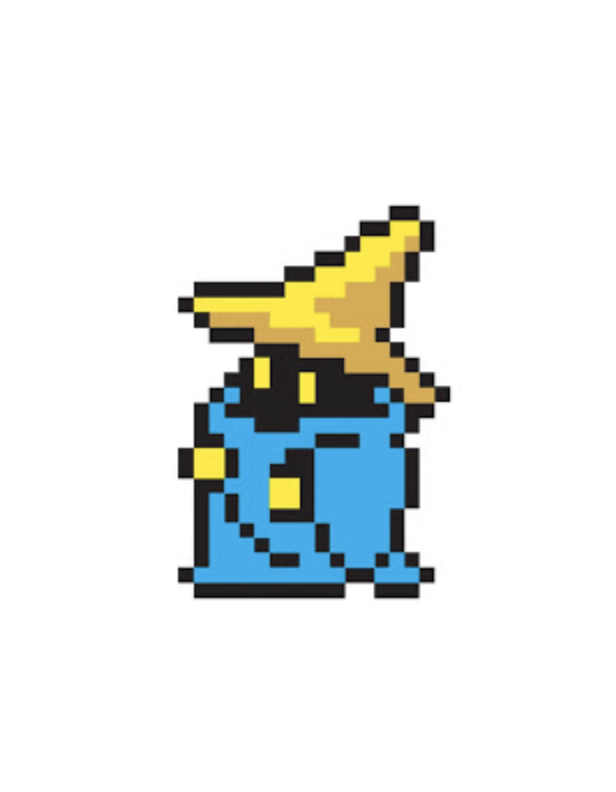
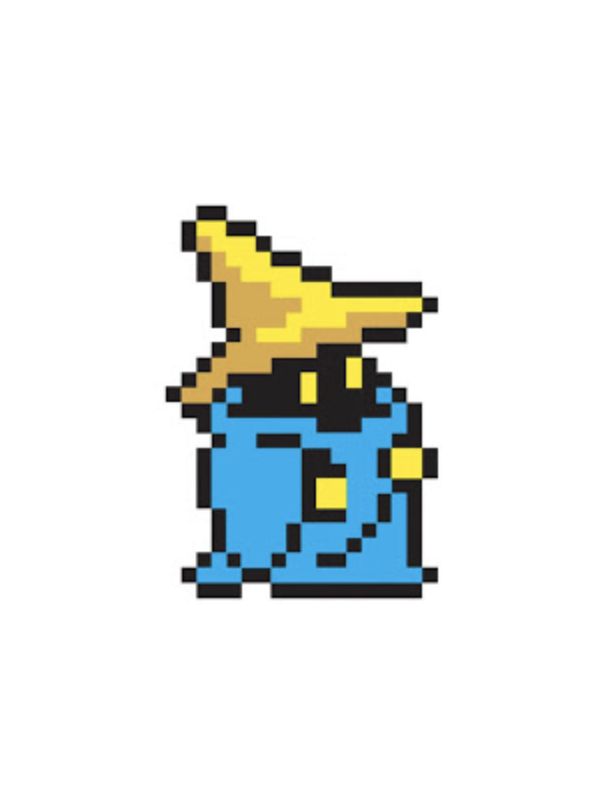
NPC image now flips so characters are facing each other

Changed region(s): [[0.2468, 0.2424, 0.7403, 0.7576]]

diff --git a/assets/javascript/game.js b/assets/javascript/game.js
@@ -118,13 +118,13 @@ function updatePC(ImgPath){
 }
 
 function updateNPC(ImgPath){
-  $("#NPC").attr("src", NPC);
+  $("#NPC").attr("src", NPC).addClass('Img-Mirror');
   $(ChseBtn).html('<p><input type="button" value="Click Me" onclick="NPC_Choice()" />');
 }
 
 function PC_Choice(){
   PC_Chosen = true;
-  console.log(PC_Chosen);
+  alert('PC Chosen');
 }
 
 function NPC_Choice(){

diff --git a/assets/css/style.css b/assets/css/style.css
@@ -39,3 +39,9 @@ body{
   top: 200px;
 
 }
+
+.Img-Mirror{
+  -moz-transform: scale(-1, 1);
+  -webkit-transform: scale(-1, 1);
+  transform: scale(-1, 1);
+}
